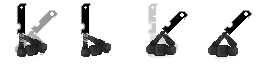
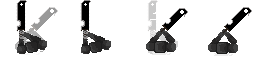
Fixed MeleeTower position.

diff --git a/core/src/com/game/Entity/Tower/Tower.java b/core/src/com/game/Entity/Tower/Tower.java
@@ -19,6 +19,7 @@ import com.game.Entity.Enemy.Enemy;
 
 import java.util.ArrayList;
 import java.util.Iterator;
+import java.util.Objects;
 
 public class Tower extends Actor {
 
@@ -98,8 +99,6 @@ public class Tower extends Actor {
         this.rotation = 0;
 
         //this.setBounds(position.x,position.y,towerTextureSize,towerTextureSize);
-
-
 
 
         this.addListener(new ClickListener() {
@@ -192,6 +191,7 @@ public class Tower extends Actor {
 
                     break;
                 }
+
             }
 
         }
@@ -216,8 +216,12 @@ public class Tower extends Actor {
         }
 
 
+        if(Objects.equals(name, "meleeTower")){
+            batch.draw(towerAnimation.getKeyFrame(stateTime, false),position.x+8, position.y+16, towerTextureSize/2, towerTextureSize/3,towerTextureSize,towerTextureSize,scale,scale,rotation);
 
-        batch.draw(towerAnimation.getKeyFrame(stateTime, false),position.x, position.y, towerTextureSize/2, towerTextureSize/2,towerTextureSize,towerTextureSize,scale,scale,rotation);
+        }else{
+            batch.draw(towerAnimation.getKeyFrame(stateTime, false),position.x, position.y, towerTextureSize/2, towerTextureSize/2,towerTextureSize,towerTextureSize,scale,scale,rotation);
+        }
 
 
 

diff --git a/core/src/com/game/Manager/GameFunctions.java b/core/src/com/game/Manager/GameFunctions.java
@@ -264,9 +264,6 @@ public class GameFunctions {
         ArrayList<Enemy> enemies = new ArrayList<>();
 
         enemies.add(new Flying());
-        /*
-                enemies.add(new Summoner());
-        enemies.add(new Flying());
         enemies.add(new Summoner());
         enemies.add(new Flying());
         enemies.add(new Summoner());
@@ -276,7 +273,8 @@ public class GameFunctions {
         enemies.add(new Summoner());
         enemies.add(new Flying());
         enemies.add(new Summoner());
-         */
+        enemies.add(new Flying());
+        enemies.add(new Summoner());
 
         return enemies;
     }

diff --git a/core/src/com/game/Entity/Tower/MeleeTower.java b/core/src/com/game/Entity/Tower/MeleeTower.java
@@ -9,7 +9,7 @@ public class MeleeTower extends Tower{
 
     public MeleeTower(int tileX, int tileY, float scale)
     {
-        super("meleeTower", "assets/game/towers/meleeTower.png", 64, new TextureRegion(new Texture(Gdx.files.internal("assets/game/bullets/arrow64.png"))), 64, tileX, tileY, scale, 0.5f, 1000, 100, 20);
+        super("meleeTower", "assets/game/towers/meleeTower.png", 112, new TextureRegion(new Texture(Gdx.files.internal("assets/game/bullets/arrow64.png"))), 64, tileX, tileY, scale, 0.5f, 1000, 100, 20);
 
     }
 

diff --git a/core/src/com/game/Screens/GameScreen.java b/core/src/com/game/Screens/GameScreen.java
@@ -617,7 +617,7 @@ public class GameScreen implements Screen {
                 spritebatch.begin();
                 towerManager.render(spritebatch, shapeRenderer);
                 enemyManager.render(spritebatch);
-                font.draw(spritebatch, "FPS=" + Gdx.graphics.getFramesPerSecond(), 0, hudCamera.viewportHeight);
+                font.draw(spritebatch, "FPS: " + Gdx.graphics.getFramesPerSecond(), 0, hudCamera.viewportHeight);
                 spritebatch.end();
 
                 break;

diff --git a/core/src/com/game/Manager/TowerManager.java b/core/src/com/game/Manager/TowerManager.java
@@ -51,6 +51,7 @@ public class TowerManager {
     }
 
 
+
     public void update(float deltaTime) {
 
         for (Tower t : towers) {
